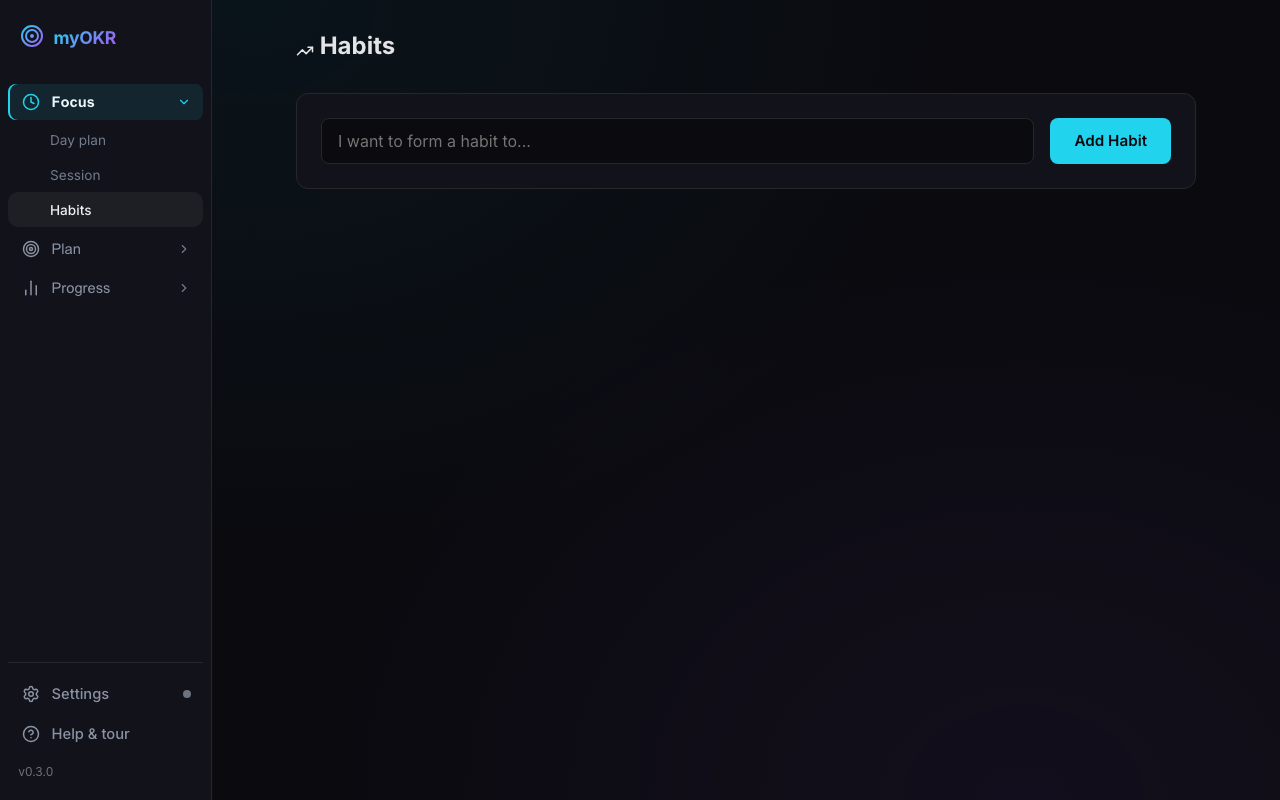
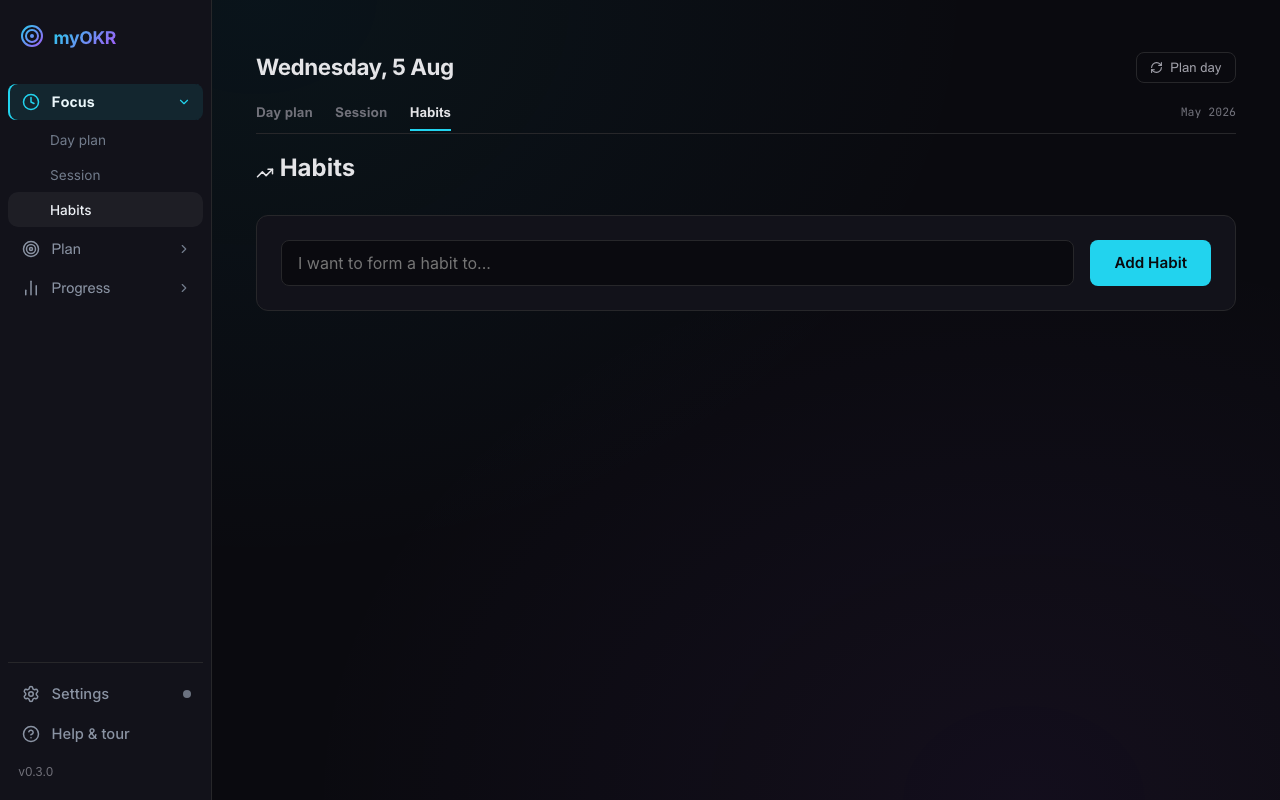
feat(focus): Habits tab in Focus shell + today-ratio badge (ticket 03)
Move the Habits tab into the Focus shell (ADR-0014): the Habits sub-item/tab
opens the habit tracker inside the shell (Habits active), behavior unchanged.
The Habits tab shows today's completion ratio (e.g. 2/3) via a HabitsBadge that
loads habits + listens for the myokr-data-synced event HabitsApp dispatches on
every change; the badge is hidden when there are no habits (no 0/0). The
denominator is total habits, matching the existing Day-plan HABITS card.

- FocusApp renders HabitsApp for the habits tab; App.tsx routes 'habits' into
  FocusApp with a distinct per-tab key; the lazy HabitsApp is dropped (FocusApp
  imports it directly).
- focus.css neutralises HabitsApp's own .habits-container shell inside the Focus
  shell so it doesn't double-pad; habits-layout.spec repointed to the shell's
  padding source (.focus-shell-inner).
- Visual baselines: habits (empty) refreshed to the Focus-shell capture and a
  habits (seeded 2/3) variant added. The empty baseline had silently passed
  stale — the tall screenshot made the new header <5% pixel diff within
  maxDiffPixelRatio, so it was force-regenerated. Linux baselines need the CI
  workflow_dispatch regen job.

Completes the Focus group: all three tabs (Day plan, Session, Habits) now share
one shell + tab strip, mirroring the Plan group.

tsc clean; visual-regression 13/13; focus/habits specs green. (e2e-workflows
review-wizard has an unrelated transient flake — passes on retry.)

diff --git a/tests/focus-habits.spec.ts b/tests/focus-habits.spec.ts
@@ -1,0 +1,51 @@
+import { test, expect, type Page } from '@playwright/test';
+
+const FIXED_TIME = new Date('2026-05-24T12:00:00.000Z');
+
+async function waitForApp(page: Page) {
+  await page.clock.setFixedTime(FIXED_TIME);
+  await page.goto('/');
+  await page.waitForLoadState('networkidle');
+  await expect(page.locator('text=Loading...')).toHaveCount(0, { timeout: 10000 });
+}
+
+async function openHabits(page: Page) {
+  await page.locator('button[title="Habits"]').first().click();
+  await page.waitForTimeout(300);
+}
+
+test.describe('Focus shell — Habits tab (ticket 03)', () => {
+  test.beforeEach(async ({ page }) => {
+    await waitForApp(page);
+    await openHabits(page);
+  });
+
+  test('habit tracker renders inside the Focus shell with Habits tab active', async ({ page }) => {
+    await expect(page.locator('.focus-shell .habits-container')).toBeVisible();
+    await expect(page.locator('.plan-tab-strip.focus-tabs .plan-tab.active')).toHaveText(/Habits/);
+  });
+
+  test('today-ratio badge is hidden when there are no habits', async ({ page }) => {
+    // Default seed has no habits → no badge (never "0/0").
+    await expect(page.locator('.focus-tab-habits')).toHaveCount(0);
+  });
+
+  test('today-ratio badge shows done/total when habits exist', async ({ page }) => {
+    // Seed 3 habits, 2 ticked today → "2/3", then nudge the sync event so the
+    // badge (which loads on mount + sync) refreshes.
+    await page.evaluate(async () => {
+      const { saveHabits } = await import('/src/lib/habit-storage.ts');
+      const { getLocalDateString } = await import('/src/lib/pomodoro-storage.ts');
+      const today = getLocalDateString();
+      const ts = '2026-05-01T00:00:00Z';
+      await saveHabits([
+        { id: 'h1', name: 'Read', status: 'in_progress', ticks: [today], order: 0, createdAt: ts, updatedAt: ts },
+        { id: 'h2', name: 'Workout', status: 'in_progress', ticks: [today], order: 1, createdAt: ts, updatedAt: ts },
+        { id: 'h3', name: 'No screens', status: 'want_to_form', ticks: [], order: 2, createdAt: ts, updatedAt: ts },
+      ]);
+      window.dispatchEvent(new CustomEvent('myokr-data-synced'));
+    });
+
+    await expect(page.locator('.focus-tab-habits')).toHaveText('2/3');
+  });
+});

diff --git a/src/components/focus/FocusTabStrip.tsx b/src/components/focus/FocusTabStrip.tsx
@@ -1,6 +1,9 @@
+import { useState, useEffect } from 'react';
 import { RefreshCw } from 'lucide-react';
 import { navigateToSection } from '../pomodoro/PlanTabStrip';
 import { useSession } from '../session/SessionProvider';
+import { loadHabits, type Habit } from '../../lib/habit-storage';
+import { getLocalDateString } from '../../lib/pomodoro-storage';
 
 const WEEKDAYS = ['Sunday', 'Monday', 'Tuesday', 'Wednesday', 'Thursday', 'Friday', 'Saturday'];
 const MONTHS_SHORT = ['Jan', 'Feb', 'Mar', 'Apr', 'May', 'Jun', 'Jul', 'Aug', 'Sep', 'Oct', 'Nov', 'Dec'];
@@ -61,6 +64,23 @@ function SessionLiveBadge() {
   return <span className="plan-tab-count focus-tab-live">live</span>;
 }
 
+/** Today's habit completion (e.g. 2/3) on the Habits tab; hidden when there are
+ *  no habits. Loads on mount + on `myokr-data-synced` (HabitsApp dispatches it
+ *  on every add/tick/untick/delete). */
+function HabitsBadge() {
+  const [habits, setHabits] = useState<Habit[]>([]);
+  useEffect(() => {
+    const load = () => { loadHabits().then(setHabits).catch(() => {}); };
+    load();
+    window.addEventListener('myokr-data-synced', load);
+    return () => window.removeEventListener('myokr-data-synced', load);
+  }, []);
+  if (habits.length === 0) return null;
+  const today = getLocalDateString();
+  const done = habits.filter(h => h.ticks.includes(today)).length;
+  return <span className="plan-tab-count focus-tab-habits">{done}/{habits.length}</span>;
+}
+
 export default function FocusTabStrip({ active, cycleLabel }: FocusTabStripProps) {
   return (
     <div className="plan-tab-strip focus-tabs">
@@ -86,6 +106,7 @@ export default function FocusTabStrip({ active, cycleLabel }: FocusTabStripProps
           onClick={() => navigateToSection('habits')}
         >
           <span>Habits</span>
+          <HabitsBadge />
         </button>
       </div>
       {cycleLabel && <span className="plan-cycle-week">{cycleLabel}</span>}

diff --git a/src/App.tsx b/src/App.tsx
@@ -17,7 +17,6 @@ const ReviewApp = lazy(() => import('./components/ReviewApp'));
 const SettingsApp = lazy(() => import('./components/SettingsApp'));
 const HelpApp = lazy(() => import('./components/HelpApp'));
 const Walkthrough = lazy(() => import('./components/Walkthrough'));
-const HabitsApp = lazy(() => import('./components/HabitsApp'));
 
 export type Section =
   | 'day-plan'
@@ -363,10 +362,10 @@ export default function App() {
             />
           </ErrorBoundary>
         )}
-        {(activeSection === 'day-plan' || activeSection === 'session') && (
+        {(activeSection === 'day-plan' || activeSection === 'session' || activeSection === 'habits') && (
           <ErrorBoundary mode="section">
             <FocusApp
-              key={activeSection === 'day-plan' ? `focus-day-plan-${todayKey}` : 'focus-session'}
+              key={`focus-${activeSection}${activeSection === 'day-plan' ? `-${todayKey}` : ''}`}
               tab={activeSection}
               requestedTaskId={requestedTaskId}
               onRequestedTaskConsumed={() => setRequestedTaskId(null)}
@@ -378,9 +377,6 @@ export default function App() {
         <Suspense fallback={<div className="loading-fallback" style={{ display: 'flex', alignItems: 'center', justifyContent: 'center', minHeight: '100%', color: 'var(--text-secondary)' }}>Loading...</div>}>
           {activeSection === 'objectives' && (
             <ErrorBoundary mode="section"><OKRApp key="okrs" /></ErrorBoundary>
-          )}
-          {activeSection === 'habits' && (
-            <ErrorBoundary mode="section"><HabitsApp key="habits" /></ErrorBoundary>
           )}
           {activeSection === 'weekly-review' && (
             <ErrorBoundary mode="section"><ReviewApp key="review" /></ErrorBoundary>

diff --git a/tests/visual-regression.spec.ts b/tests/visual-regression.spec.ts
@@ -84,6 +84,28 @@ test.describe('Visual regression (1a redesign)', () => {
     });
   });
 
+  // Habits tab with a seeded 2/3-completed set (ticket 03). The default 'habits'
+  // capture above is the empty (0-habits) seed; this is the populated variant.
+  test('habits (seeded 2/3) @1280', async ({ page }) => {
+    await page.evaluate(async () => {
+      const { saveHabits } = await import('/src/lib/habit-storage.ts');
+      const { getLocalDateString } = await import('/src/lib/pomodoro-storage.ts');
+      const today = getLocalDateString();
+      const ts = '2026-01-01T00:00:00Z';
+      await saveHabits([
+        { id: 'h1', name: 'Read 20 pages', status: 'in_progress', ticks: [today], order: 0, createdAt: ts, updatedAt: ts },
+        { id: 'h2', name: 'Morning workout', status: 'in_progress', ticks: [today], order: 1, createdAt: ts, updatedAt: ts },
+        { id: 'h3', name: 'No screens after 22:00', status: 'want_to_form', ticks: [], order: 2, createdAt: ts, updatedAt: ts },
+      ]);
+    });
+    await page.locator('[title="Habits"]').first().click();
+    await page.waitForTimeout(300);
+    await expect(page).toHaveScreenshot('habits-seeded.png', {
+      fullPage: true,
+      maxDiffPixelRatio: 0.05,
+    });
+  });
+
   // P4 flagship: the Task detail modal — header (title + cyan Start focus +
   // actions on one row), properties strip, POMODOROS THIS WEEK bar, notes, and
   // sub-tasks tabs. Seeded rich data incl. 4 completed focus sessions this week

diff --git a/tests/habits-layout.spec.ts b/tests/habits-layout.spec.ts
@@ -184,11 +184,12 @@ test.describe('Habits Tab Layout and Title Styles', () => {
     const syncPaddingLeft = await syncContainer.evaluate((el) => window.getComputedStyle(el).paddingLeft);
     expect(parseInt(syncPaddingLeft, 10)).toBeGreaterThan(0);
 
-    // 4. Check Habits tab
+    // 4. Check Habits tab — embedded in the Focus shell, so its horizontal padding
+    //    comes from .focus-shell-inner (.habits-container's own is neutralised).
     await clickNav('Habits');
     const habitsContainer = page.locator('.habits-container');
     await expect(habitsContainer).toBeVisible();
-    const habitsPaddingLeft = await habitsContainer.evaluate((el) => window.getComputedStyle(el).paddingLeft);
+    const habitsPaddingLeft = await page.locator('.focus-shell-inner').first().evaluate((el) => window.getComputedStyle(el).paddingLeft);
     expect(parseInt(habitsPaddingLeft, 10)).toBeGreaterThan(0);
   });
 });

diff --git a/src/components/FocusApp.tsx b/src/components/FocusApp.tsx
@@ -1,6 +1,7 @@
 import { useState, useEffect } from 'react';
 import DayPlanBody from './DayPlanBody';
 import SessionView from './focus/SessionView';
+import HabitsApp from './HabitsApp';
 import FocusTabStrip, { FocusHeader, type FocusTab } from './focus/FocusTabStrip';
 import { cycleWeekLabel } from './pomodoro/PlanTabStrip';
 import { getActiveCycle, type OKRCycle } from '../lib/okr-storage';
@@ -51,7 +52,7 @@ export default function FocusApp({ tab, requestedTaskId, onRequestedTaskConsumed
         {tab === 'session' && (
           <SessionView requestedTaskId={requestedTaskId} onRequestedTaskConsumed={onRequestedTaskConsumed} />
         )}
-        {/* tab === 'habits' → ticket 03 */}
+        {tab === 'habits' && <HabitsApp />}
       </div>
     </div>
   );

diff --git a/src/styles/focus.css b/src/styles/focus.css
@@ -47,6 +47,15 @@
   color: var(--text-primary);
 }
 
+/* HabitsApp ships its own .habits-container shell (900px, padding 1em 0 3em).
+   Inside the Focus shell it must not double-shell — neutralise it so the habit
+   tracker uses the Focus shell's padding/max-width. */
+.focus-shell-inner > .habits-container {
+  max-width: none;
+  margin: 0;
+  padding: 0;
+}
+
 /* Responsive: hide the cycle label below 900px (the tab row stays). An exception
    to "nothing hidden, only re-stacked" — a tab-row context label has nowhere
    useful to re-stack to (ADR-0014 / design-system.md). */
